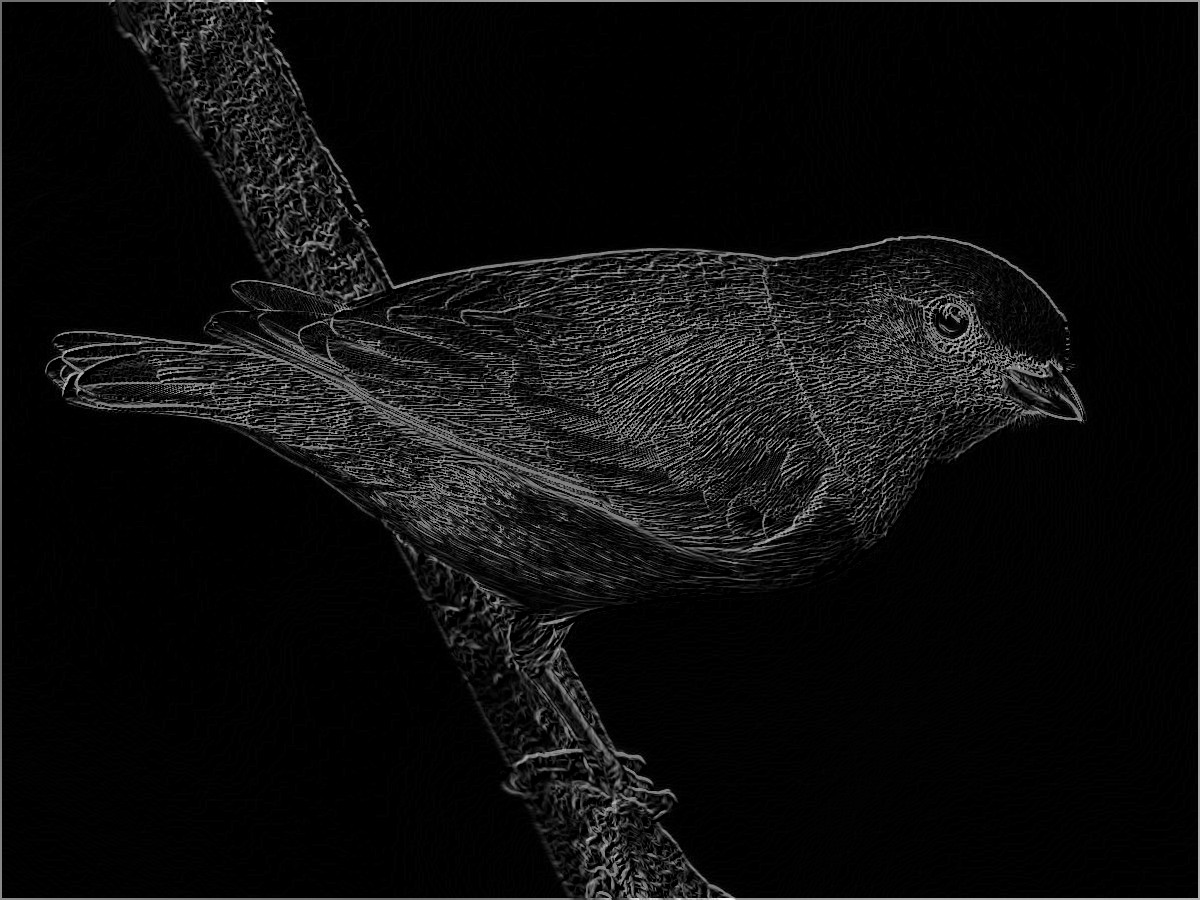
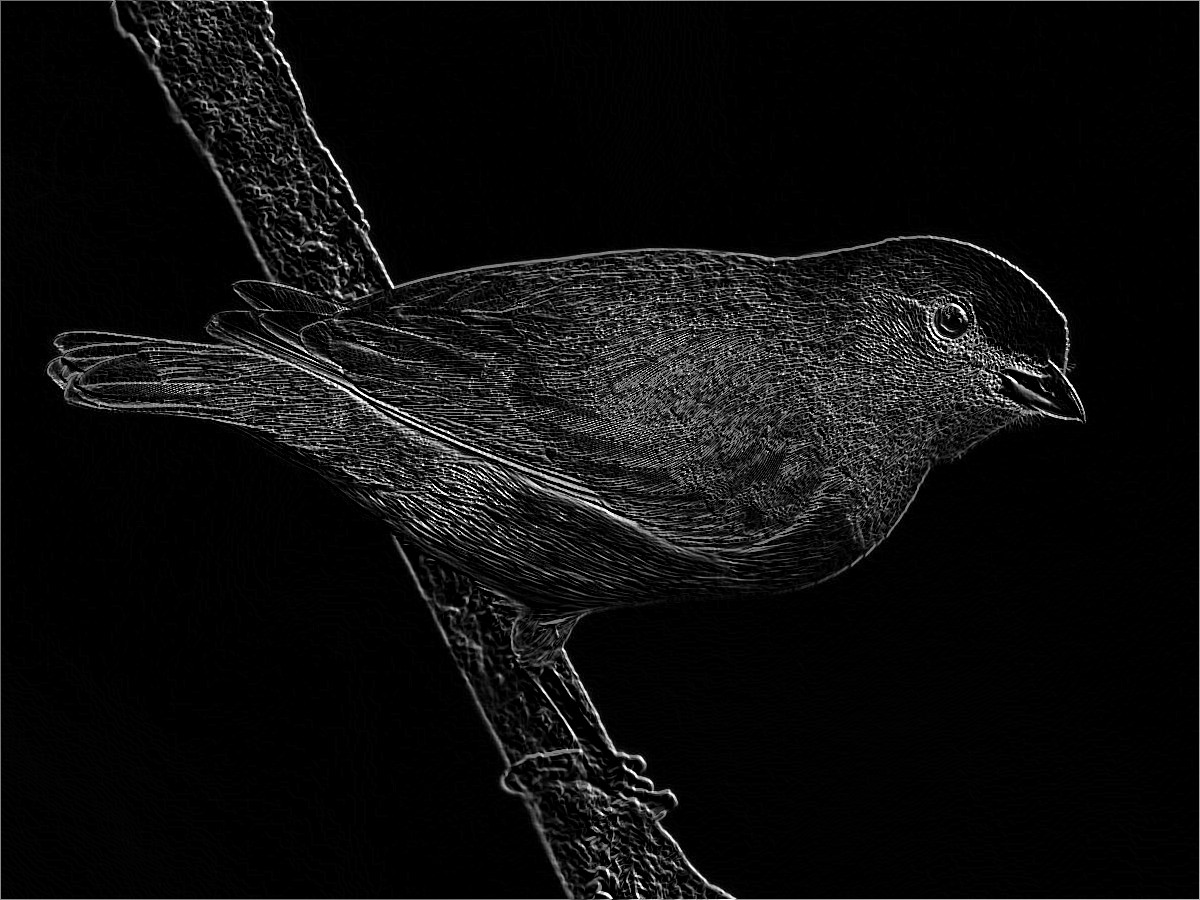
refactor: melhora algoritmo do filtro de laplaciano e prewitt

Changed region(s): [[0.0, 0.0, 1.0, 1.0], [0.8325, 0.28, 0.8633, 0.3111], [0.6783, 0.6222, 0.7092, 0.6533]]

diff --git a/src/main.c b/src/main.c
@@ -111,21 +111,38 @@ void show_menu() {
 }
 
 void driver(const int8_t* kernel, const int8_t* region, int8_t* result, int size, int opcode) {
-        long long sum = 0;
-        for (int i = 0; i < size; i++) {
-            for (int e = 0; e < size; e++) {
-            
-            
-                sum += (long long)kernel[i * size + e] * region[i * size + e];
+        if(size == 1){
+            int sum = 0;
+            for (int i = 0; i < 3; i++) {
+                for (int e = 0; e < 3; e++) {
+                    sum += kernel[i * 3 + e] * region[i * 3 + e];
+                }
+            }
+        
+            if (sum >= 127) {
+                result[0] = 127;
+            } else if (sum <= 0) {
+                result[0] = 0;
+            } else {
+                result[0] = (int8_t)sum;
             }
         }
-    
-        if (sum >= 127) {
-            result[0] = 127;
-        } else if (sum <= 0) {
-            result[0] = 0;
-        } else {
-            result[0] = (int8_t)sum;
+
+        if(size == 3){
+            int sum = 0;
+            for (int i = 0; i < 5; i++) {
+                for (int e = 0; e < 5; e++) {
+                    sum += kernel[i * 5 + e] * region[i * 5 + e];
+                }
+            }
+        
+            if (sum >= 127) {
+                result[0] = 127;
+            } else if (sum <= 0) {
+                result[0] = 0;
+            } else {
+                result[0] = (int8_t)sum;
+            }
         }
 }
 
@@ -152,8 +169,8 @@ void apply_filter(unsigned char* gray_img, int width, int height, const char* ou
 }
 
 void apply_laplacian(unsigned char* gray_img, unsigned char* output, int width, int height) {
-
-    const int8_t laplacian_kernel[] = {
+    // Kernel Laplaciano
+    int8_t laplacian_kernel[] = {
         0, 0,  1, 0, 0,
         0, 1,  2, 1, 0,
         1, 2,-16, 2, 1,
@@ -161,84 +178,88 @@ void apply_laplacian(unsigned char* gray_img, unsigned char* output, int width, 
         0, 0,  1, 0, 0
     };
     
+    // Tamanho do kernel (5x5)
     int kernel_size = 5;
-    int half_kernel = kernel_size / 2;
 
+    // Metade do tamanho do kernel (para evitar processar bordas)
+    int half_kernel = kernel_size / 2; 
+
+    // Percorre cada pixel da imagem (exceto bordas)
     for (int y = half_kernel; y < height - half_kernel; y++) {
         for (int x = half_kernel; x < width - half_kernel; x++) {
+
+            // Extrai uma região 5x5 ao redor do pixel (y, x)
             int8_t region_s8[25];
+            
             int idx = 0;
             for (int ky = -half_kernel; ky <= half_kernel; ky++) {
                 for (int kx = -half_kernel; kx <= half_kernel; kx++) {
-                
+                    // Os pixels são convertidos para int8_t (-128 a 127) subtraindo 128
                     region_s8[idx++] = (int8_t)(gray_img[(y + ky) * width + (x + kx)] - 128);
                 }
             }
             
+            // Armazena o resultado da convolução
             int8_t convolution_result_s8_array[25];
-            driver(laplacian_kernel, region_s8, convolution_result_s8_array, kernel_size, 2);
-            
 
-            int abs_laplacian_val = abs((int)convolution_result_s8_array[0]);
-
-            int scaled_val = abs_laplacian_val * 2;
-            if (scaled_val > 255) {
-                scaled_val = 255;
-            }
+            // Aplica a convolução usando o kernel Laplaciano
+            driver(laplacian_kernel, region_s8, convolution_result_s8_array, 3, 2);
             
-            output[y * width + x] = (unsigned char)scaled_val;
+            // Armazena o resultado no pixel de saída (convertendo para 0-255)
+            output[y * width + x] = (unsigned char)convolution_result_s8_array[0];
         }
     }
 }
 
 void apply_prewitt(unsigned char* gray_img, unsigned char* output, int width, int height) {
-    const int8_t prewitt_x_kernel[] = {
-        0,  0,  0,  0,  0,
-        0, -1,  0,  1,  0,
-        0, -1,  0,  1,  0,
-        0, -1,  0,  1,  0,
-        0,  0,  0,  0,  0
+    // Kernels de Prewitt para detecção de bordas em X e Y
+    int8_t prewitt_x_kernel[] = {
+        1,  0,  -1,  
+        1,  0,  -1,
+        1,  0,  -1
     };
 
-    const int8_t prewitt_y_kernel[] = {
-        0,  0,  0,  0,  0,
-        0, -1, -1, -1,  0,
-        0,  0,  0,  0,  0,
-        0,  1,  1,  1,  0,
-        0,  0,  0,  0,  0
+    int8_t prewitt_y_kernel[] = {
+        -1, -1, -1,
+         0,  0,  0,  
+         1,  1,  1
     };
     
-    int kernel_size = 5;
+    // Tamanho do kernel (3x3)
+    int kernel_size = 3;
+
+    // Metade do tamanho do kernel (para evitar processar bordas)
     int half_kernel = kernel_size / 2;
 
+    // Percorre cada pixel da imagem (exceto bordas)
     for (int y = half_kernel; y < height - half_kernel; y++) {
         for (int x = half_kernel; x < width - half_kernel; x++) {
-            int8_t region_s8[25];
+
+            // Extrai uma região 3x3 ao redor do pixel (y, x)
+            int8_t region_s8[9];
             int idx = 0;
+            
             for (int ky = -half_kernel; ky <= half_kernel; ky++) {
                 for (int kx = -half_kernel; kx <= half_kernel; kx++) {
-                
+                    // Converte pixels para int8_t (-128 a 127) subtraindo 128
                     region_s8[idx++] = (int8_t)(gray_img[(y + ky) * width + (x + kx)] - 128);
                 }
             }
             
-            int8_t result_x_s8_array[25];
-            int8_t result_y_s8_array[25];
-            driver(prewitt_x_kernel, region_s8, result_x_s8_array, kernel_size, 2);
-            driver(prewitt_y_kernel, region_s8, result_y_s8_array, kernel_size, 2);
+            // Resultados das convoluções em X e Y
+            int8_t gx_result[9], gy_result[9];
             
-
-            double magnitude_double = sqrt((double)result_x_s8_array[0] * result_x_s8_array[0] + (double)result_y_s8_array[0] * result_y_s8_array[0]);
-            int magnitude = (int)magnitude_double;
+            // Aplica convolução nas direções X e Y
+            driver(prewitt_x_kernel, region_s8, gx_result, 1, 2);
+            driver(prewitt_y_kernel, region_s8, gy_result, 1, 2);
             
-        
-            if (magnitude > 255) {
-                output[y * width + x] = 255;
-            } else if (magnitude < 0) {
-                output[y * width + x] = 0;
-            } else {
-                output[y * width + x] = (unsigned char)magnitude;
-            }
+            // Calcula a magnitude do gradiente (aproximação)
+            int16_t gx = gx_result[0];
+            int16_t gy = gy_result[0];
+            int16_t magnitude = abs(gx) + abs(gy);
+            
+            // Armazena o resultado (0-255)
+            output[y * width + x] = (unsigned char)(magnitude);   
         }
     }
 }
